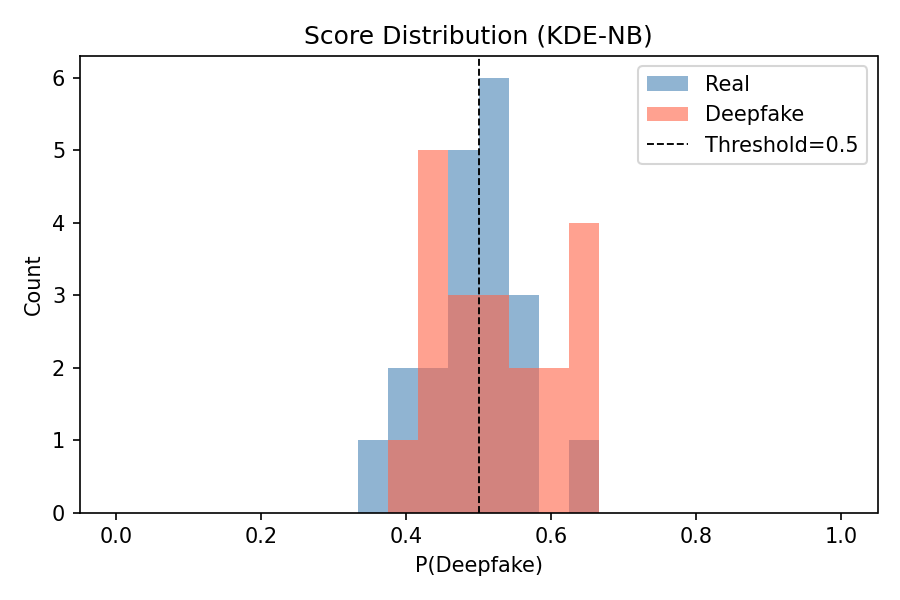
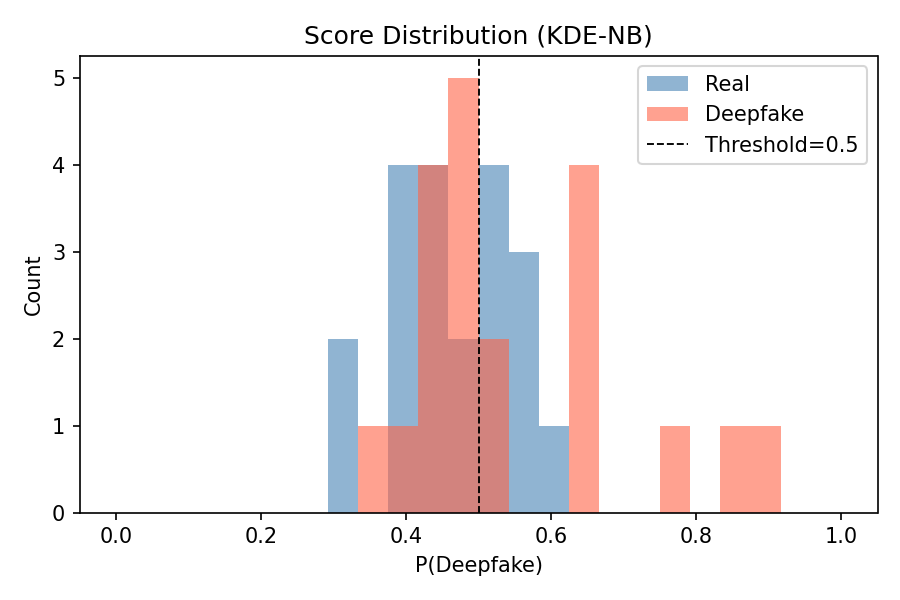
P5+KDE: tighter crop features with KDE likelihood
Combines P5's tighter bbox crop (features_p5_tighter_crop.csv) with
P3's KDE likelihood (Gaussian kernel, Scott's bandwidth) to address
both the signal quality and distribution calibration issues.

Results vs baseline (62.5% acc, 0.607 AUC):
  f5 alone (KDE):  60.0% acc, 0.682 AUC  (+0.075 AUC)
  f2 alone (KDE):  57.5% acc, 0.585 AUC
  f2+f5 (KDE):     60.0% acc, 0.680 AUC
  all 5 (KDE):     52.5% acc, 0.678 AUC

vs P5 Gaussian f5 alone: acc 57.5%→60.0% (+2.5%), AUC 0.690→0.682 (-0.008)
vs P3 KDE f5 alone:      acc 62.5%→60.0% (-2.5%), AUC 0.645→0.682 (+0.037)

KDE fixes the accuracy drop from Gaussian NB's sigma-penalty at cost
of slight AUC regression vs tighter crop alone.

diff --git a/src/classify.py b/src/classify.py
@@ -21,7 +21,7 @@ from sklearn.metrics import (
 from sklearn.neighbors import KernelDensity
 
 PARAMS_JSON   = os.path.join(os.path.dirname(__file__), '..', 'models', 'params.json')
-FEATURES_CSV  = os.path.join(os.path.dirname(__file__), '..', 'data', 'features.csv')
+FEATURES_CSV  = os.path.join(os.path.dirname(__file__), '..', 'data', 'features_p5_tighter_crop.csv')
 RESULTS_DIR   = os.path.join(os.path.dirname(__file__), '..', 'results')
 THRESHOLD     = 0.5
 

diff --git a/src/train.py b/src/train.py
@@ -10,7 +10,7 @@ import os
 import numpy as np
 from sklearn.model_selection import train_test_split
 
-FEATURES_CSV = os.path.join(os.path.dirname(__file__), '..', 'data', 'features.csv')
+FEATURES_CSV = os.path.join(os.path.dirname(__file__), '..', 'data', 'features_p5_tighter_crop.csv')
 PARAMS_JSON  = os.path.join(os.path.dirname(__file__), '..', 'models', 'params.json')
 TEST_SIZE    = 0.20
 RANDOM_STATE = 42
